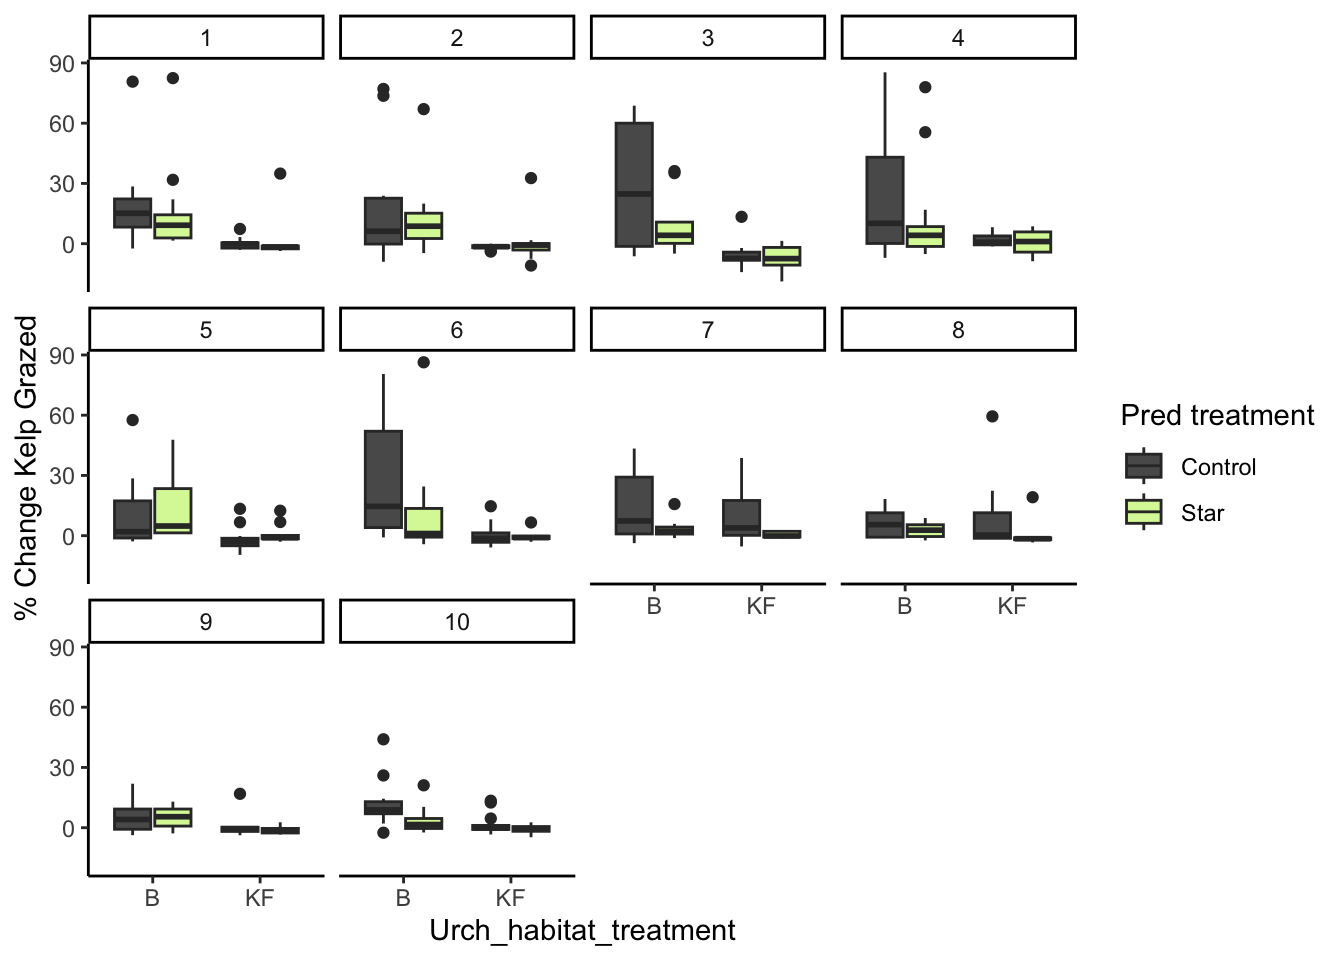
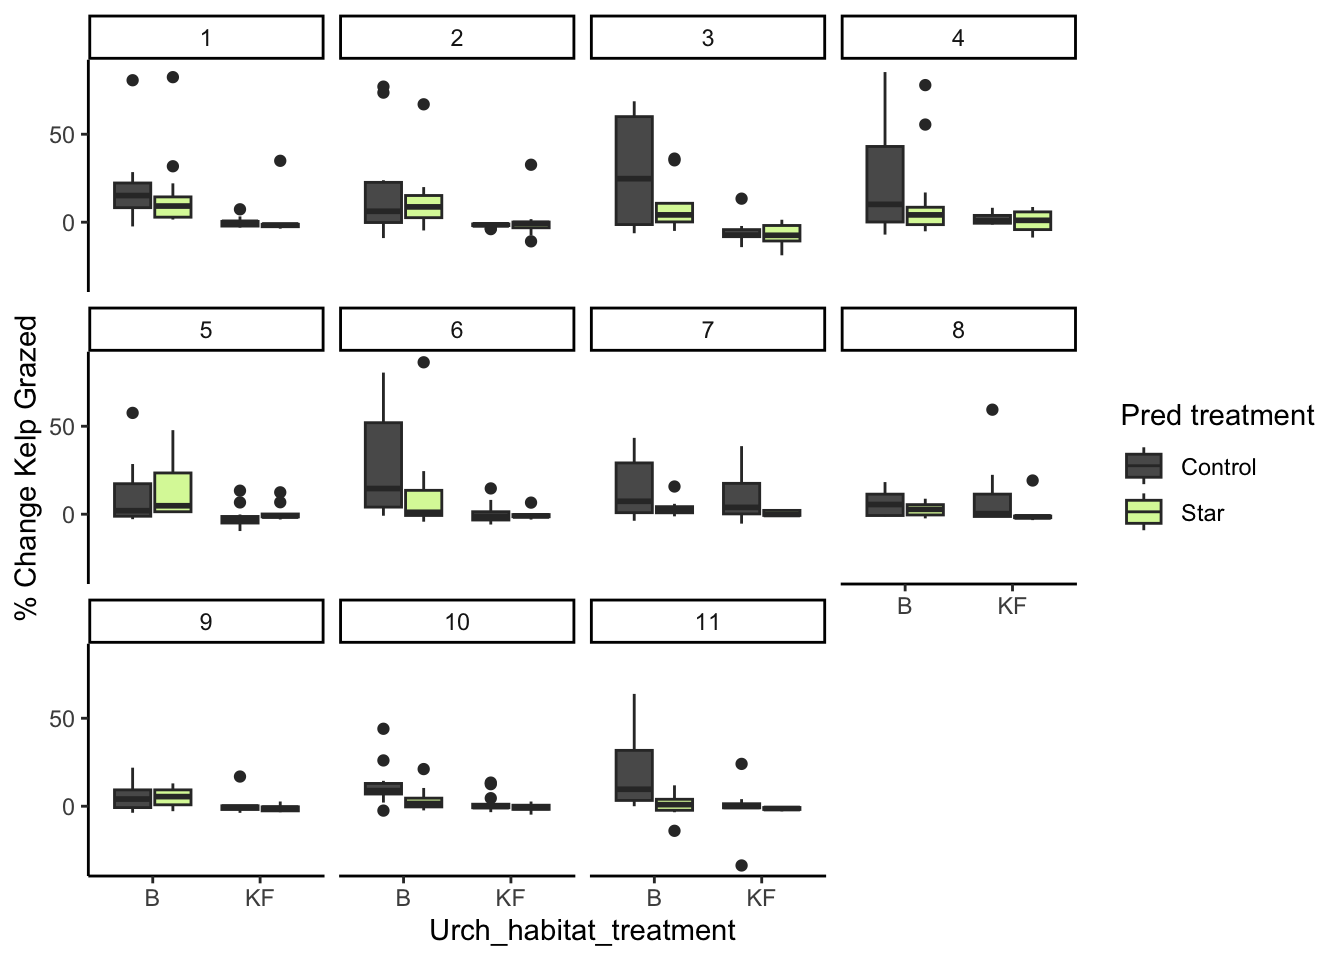
t11

diff --git a/docs/kelp_analysis.html b/docs/kelp_analysis.html
@@ -6,7 +6,7 @@
 
 <meta name="viewport" content="width=device-width, initial-scale=1.0, user-scalable=yes">
 
-<meta name="dcterms.date" content="2024-08-17">
+<meta name="dcterms.date" content="2024-08-20">
 
 <title>PycnoPie</title>
 <style>
@@ -91,7 +91,7 @@ pre > code.sourceCode > span > a:first-child::before { text-decoration: underlin
     <div>
     <div class="quarto-title-meta-heading">Published</div>
     <div class="quarto-title-meta-contents">
-      <p class="date">August 17, 2024</p>
+      <p class="date">August 20, 2024</p>
     </div>
   </div>
   
@@ -119,13 +119,13 @@ pre > code.sourceCode > span > a:first-child::before { text-decoration: underlin
 <span id="cb2-2"><a href="#cb2-2" aria-hidden="true" tabindex="-1"></a><span class="fu">unique</span>(<span class="fu">subset</span>(kelp_processed, <span class="sc">!</span><span class="fu">is.na</span>(pcnt_grazed))<span class="sc">$</span>Trial)</span></code><button title="Copy to Clipboard" class="code-copy-button"><i class="bi"></i></button></pre></div>
 </details>
 <div class="cell-output cell-output-stdout">
-<pre><code> [1]  1  2  3  4  5  6  7  8  9 10</code></pre>
+<pre><code> [1]  1  2  3  4  5  6  7  8  9 10 11</code></pre>
 </div>
 </div>
 </section>
 <section id="urchin-source-habitat-vs.-kelp-grazed-for-different-predator-treatments" class="level3">
 <h3 class="anchored" data-anchor-id="urchin-source-habitat-vs.-kelp-grazed-for-different-predator-treatments">Urchin source habitat vs.&nbsp;kelp grazed for different predator treatments</h3>
-<p>All trials:</p>
+<p>Boxplot for all trials:</p>
 <div class="cell">
 <details>
 <summary>Code</summary>
@@ -142,7 +142,7 @@ pre > code.sourceCode > span > a:first-child::before { text-decoration: underlin
 <p><img src="kelp_analysis_files/figure-html/unnamed-chunk-6-1.png" class="img-fluid" width="672"></p>
 </div>
 </div>
-<p>Individual trials:</p>
+<p>Boxplot for Individual trials:</p>
 <div class="cell">
 <details>
 <summary>Code</summary>
